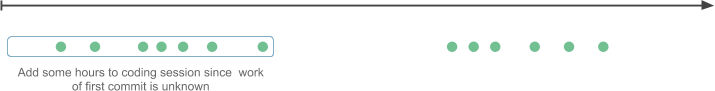
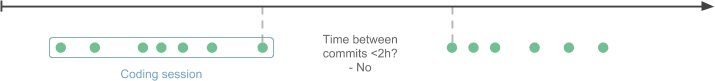
Put texts under images and add begin step in algorithm

diff --git a/README.md b/README.md
@@ -6,7 +6,7 @@ Estimate time spent on a git repository.
 
 **Example**
 
-```json
+```javascript
 ➜  git-hours git:(master) githours
 {
   "total": {
@@ -20,30 +20,37 @@ Estimate time spent on a git repository.
 
 The algorithm for estimating hours is quite simple.
 
+<br>
+
 ![](docs/step0.png)
 
-Go through all commits and compare the difference between
-them in time.
+*Go through all commits and compare the difference between
+them in time.*
 
 <br>
 
 ![](docs/step1.png)
 
-If the difference is smaller or equal then a given threshold, group the commits
-to a same coding session.
+*If the difference is smaller or equal then a given threshold, group the commits
+to a same coding session.*
 
 <br>
 
 ![](docs/step2.png)
 
-If the difference is bigger than a given threshold, the coding session is finished.
-To compensate the first commit whose work is unknown, we add extra hours to the coding session.
+*If the difference is bigger than a given threshold, the coding session is finished.*
 
 <br>
 
 ![](docs/step3.png)
 
-This is continued until we have determined all coding sessions.
+*To compensate the first commit whose work is unknown, we add extra hours to the coding session.*
+
+<br>
+
+![](docs/step4.png)
+
+*Continue until we have determined all coding sessions.*
 
 <br>
 
@@ -51,6 +58,8 @@ This is continued until we have determined all coding sessions.
 
     npm install -g nodegit
     npm install -g git-hours
+
+Nodegit library is a bit unstable and might crash randomly.
 
 ## Usage
 
